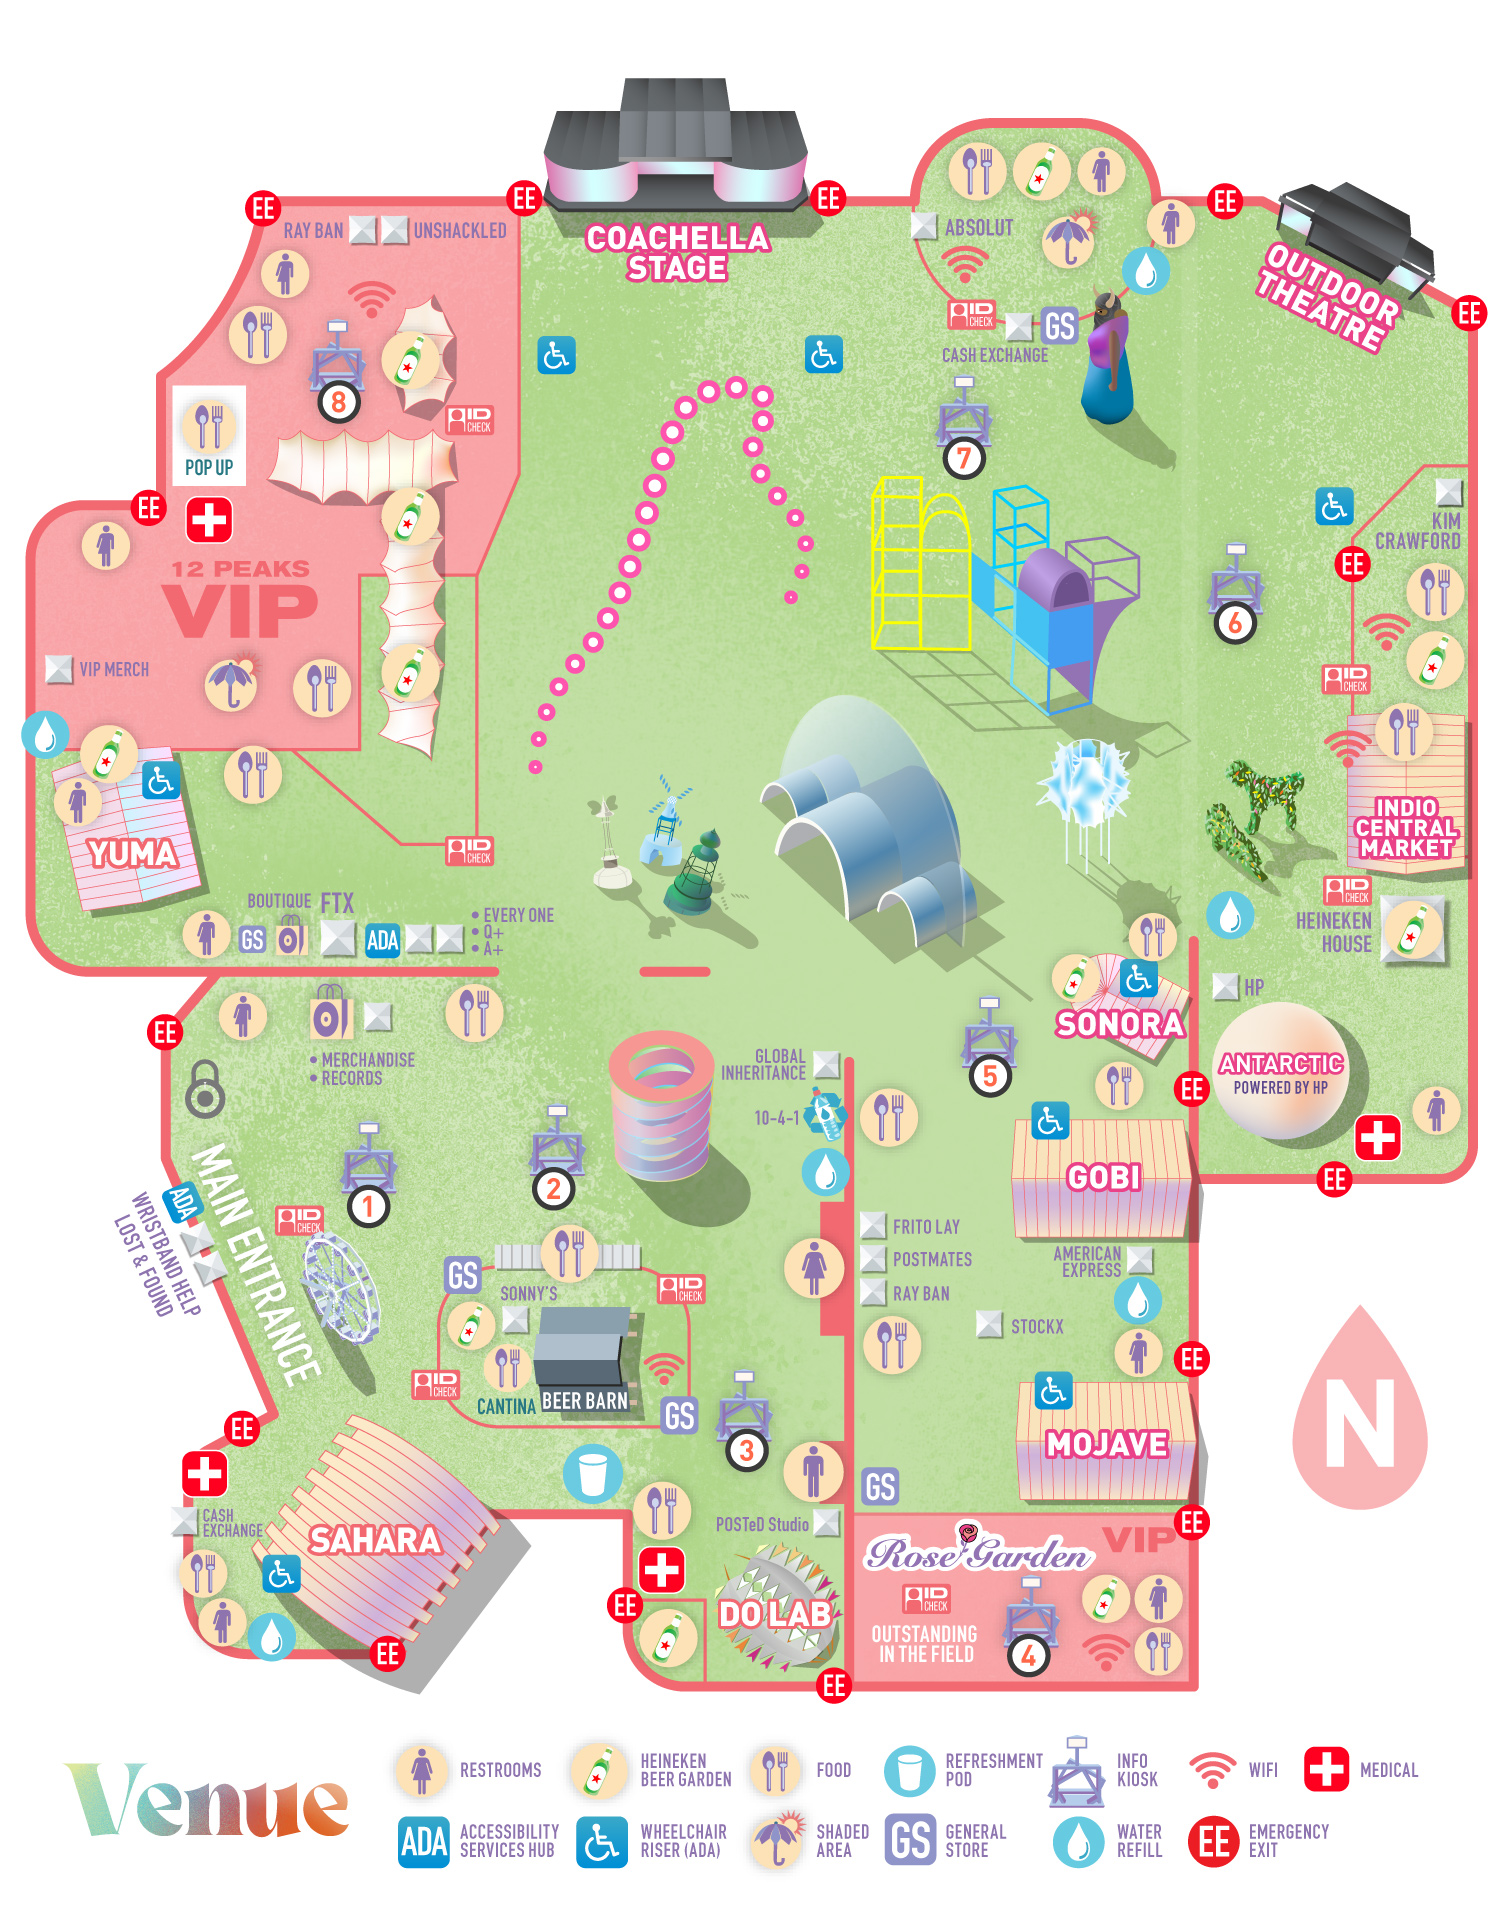
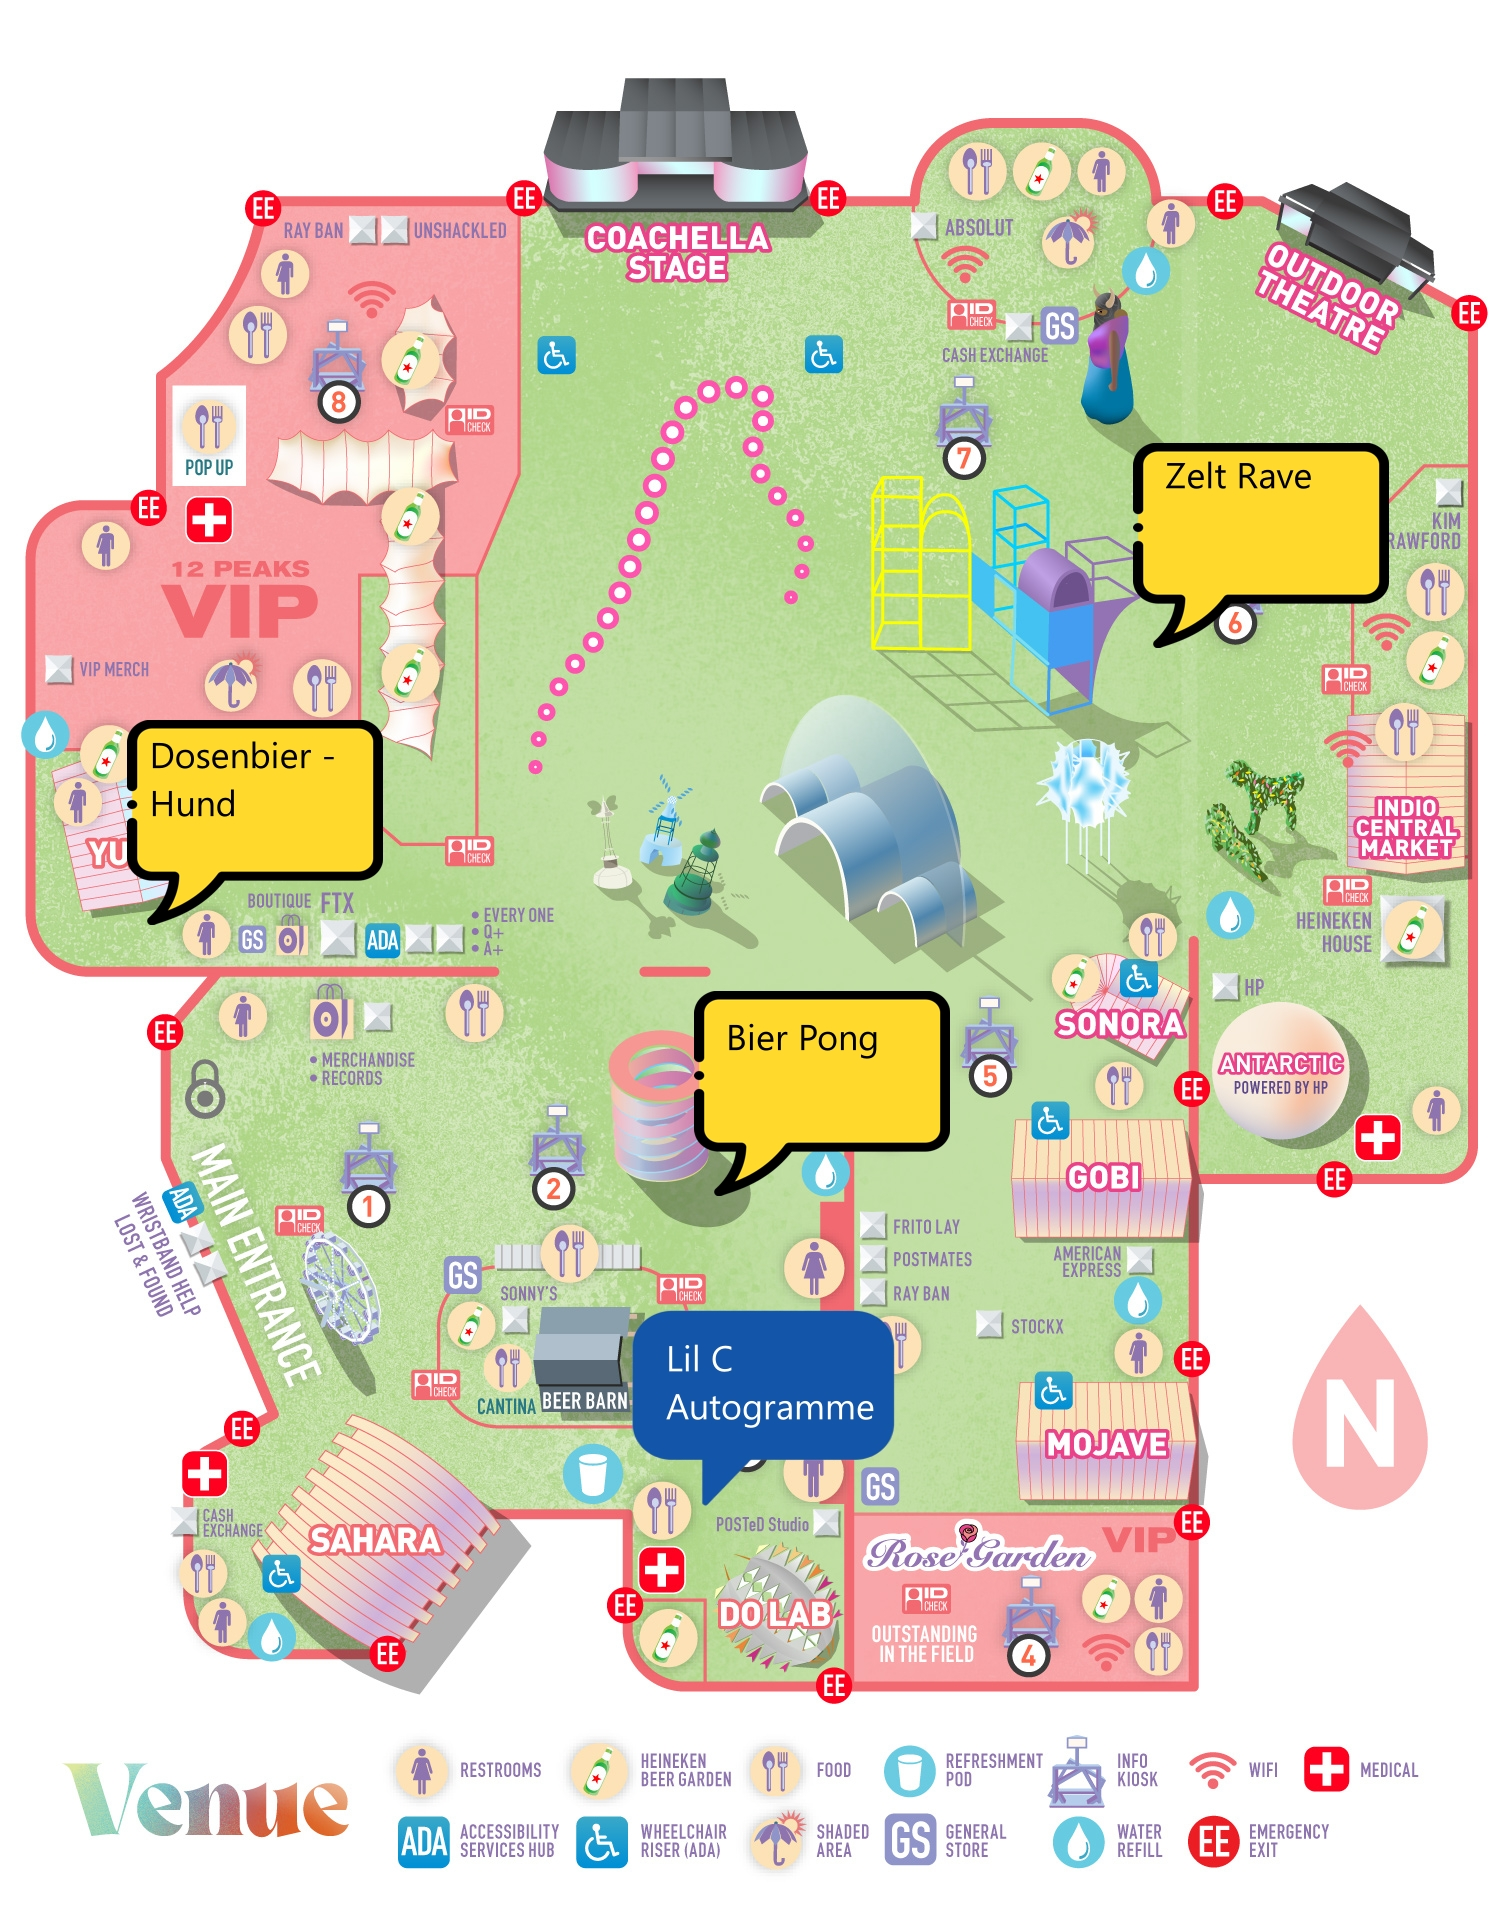
added event map and map upload

diff --git a/admin-frontend/src/app/lineup-management/lineup-management.component.html b/admin-frontend/src/app/lineup-management/lineup-management.component.html
@@ -6,14 +6,14 @@
     <mat-expansion-panel-header class="">
       <mat-panel-title class="w-full h-full flex justify-center items-center"
         ><div
-          class="text-center flex justify-center items-center text-foreground-500"
+          class="text-center text-lg flex justify-center items-center text-foreground-500"
         >
           Lineup / Timetable
         </div></mat-panel-title
       >
     </mat-expansion-panel-header>
     <div>
-      <p class="self-center text-2xl font-bold">Artists</p>
+      <p class="self-center text-2xl">Artists</p>
       <div class="flex flex-wrap">
         <div class="flex flex-col pr-10 flex-wrap w-1/3">
           @for (artist of artists; track $index) {
@@ -159,13 +159,38 @@
     </div></mat-expansion-panel
   >
 
+  <mat-expansion-panel>
+    <mat-expansion-panel-header>
+      <mat-panel-title class="w-full h-full flex justify-center items-center">
+        <div class="text-center text-lg flex justify-center items-center text-foreground-500">
+          Maps
+        </div>
+      </mat-panel-title>
+    </mat-expansion-panel-header>
+    <div>
+      <label>Name:</label>
+      <textarea
+        class="w-full p-2 bg-primary-200 text-white rounded-lg"
+        placeholder="Enter the name of the map..."
+      ></textarea>
+    </div>
+
+    <div>
+      <label>Image:</label>
+      <input
+        type="file"
+        class="w-full p-2 bg-primary-200 text-white rounded-lg"
+      />
+    </div>
+  </mat-expansion-panel>
+
   <mat-expansion-panel
     [disabled]="true"
     class="w-[90svw] bg-gray-500 opacity-50 cursor-not-allowed select-none"
   >
     <mat-expansion-panel-header>
       <mat-panel-title class="w-full h-full flex justify-center items-center">
-        <div class="text-center flex justify-center items-center text-gray-300">
+        <div class="text-center text-lg flex justify-center items-center text-gray-200">
           Cashless Payment
         </div>
       </mat-panel-title>

diff --git a/user-frontend/src/app/map/map.component.html b/user-frontend/src/app/map/map.component.html
@@ -1,13 +1,26 @@
-<div class="flex items-center justify-between p-2 pb-4 shadow-sm z-10 ">
+<div class="flex items-center justify-between p-2 pb-4 shadow-sm z-10">
   <app-back></app-back>
   <h1 class="text-2xl mt-2">Regex Rave Map</h1>
   <app-bell></app-bell>
 </div>
 
-<mat-slide-toggle [(ngModel)]="heatMapEnabled" class="m-3">Heat Map</mat-slide-toggle>
+<mat-slide-toggle [(ngModel)]="heatMapEnabled" class="m-3"
+  >Heat Map</mat-slide-toggle
+>
+<mat-slide-toggle [(ngModel)]="eventsEnabled" class="m-3"
+  >Event Map</mat-slide-toggle
+>
 
-<img [src]="heatMapEnabled() ? 'map/coachella_heated.jpg' : 'map/coachella.jpg'"
-     alt="Festival Map"
-     class="w-full">
+<img
+  [src]="
+    eventsEnabled()
+      ? 'map/coachella_events.jpg'
+      : heatMapEnabled()
+      ? 'map/coachella_heated.jpg'
+      : 'map/coachella.jpg'
+  "
+  alt="Festival Map"
+  class="w-full"
+/>
 
 <app-navbar-festival class="fixed bottom-0 w-full"></app-navbar-festival>

diff --git a/user-frontend/src/app/timetable/timetable.component.html b/user-frontend/src/app/timetable/timetable.component.html
@@ -71,7 +71,7 @@
       @for (stage of stages(); track stage) { @for (act of getActs(stage); track
       act.name) {
       <div
-        class="event bg-secondary-800 border text-2xl p-1 flex flex-col relative"
+        class="event bg-secondary-800 border text-xl p-1 flex flex-col relative"
         [style.gridColumn]="stages().indexOf(stage) + 2"
         [style.gridRow]="getStartRow(act) + ' / span ' + getRowSpan(act)"
         style="pointer-events: auto"

diff --git a/user-frontend/src/app/map/map.component.ts b/user-frontend/src/app/map/map.component.ts
@@ -21,5 +21,6 @@ import { MatCardModule } from '@angular/material/card';
 })
 export class MapComponent {
   heatMapEnabled = signal<boolean>(false);
+  eventsEnabled = signal<boolean>(false);
   constructor() {}
 }
